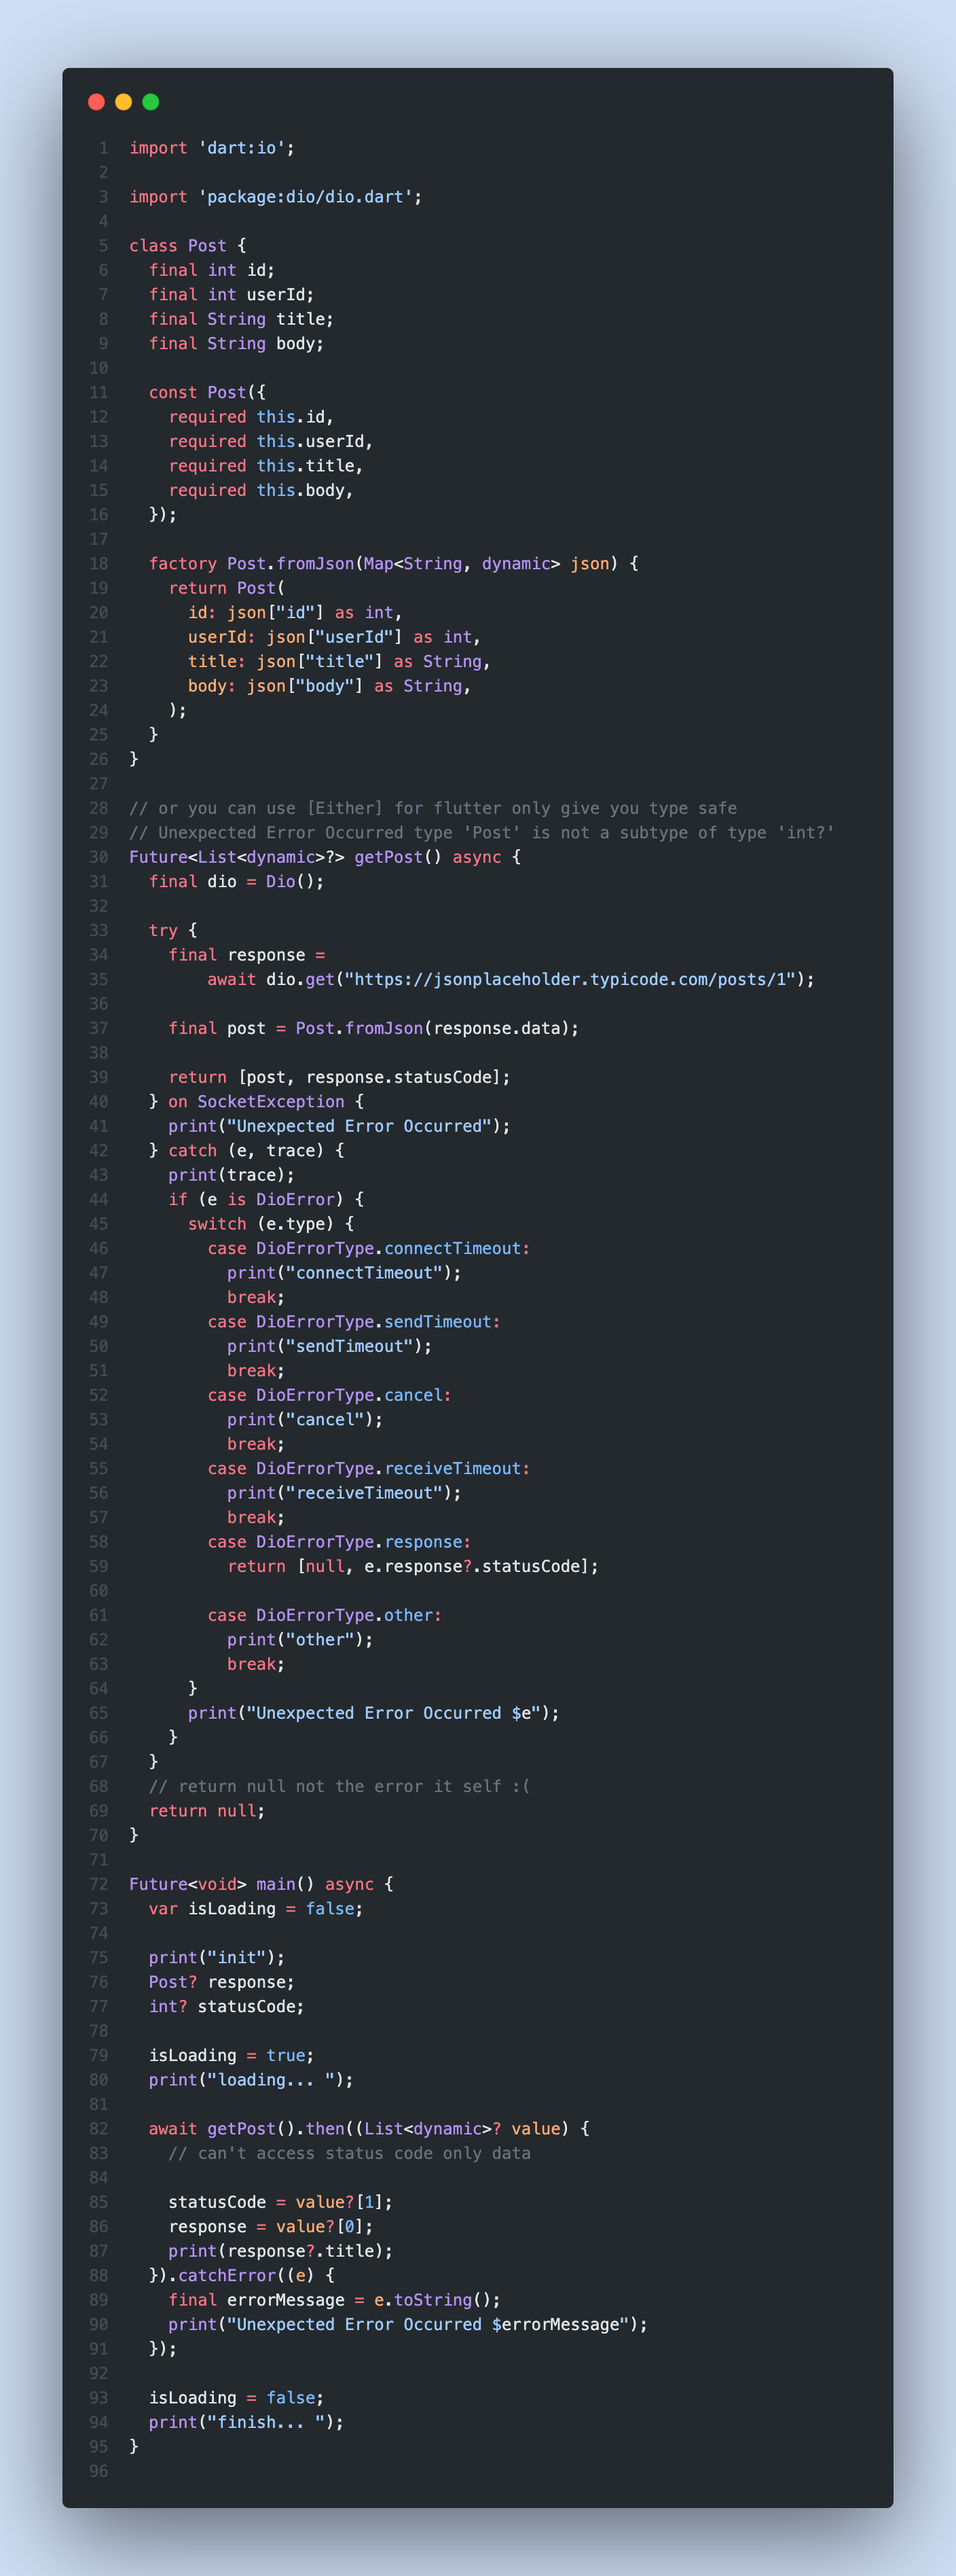
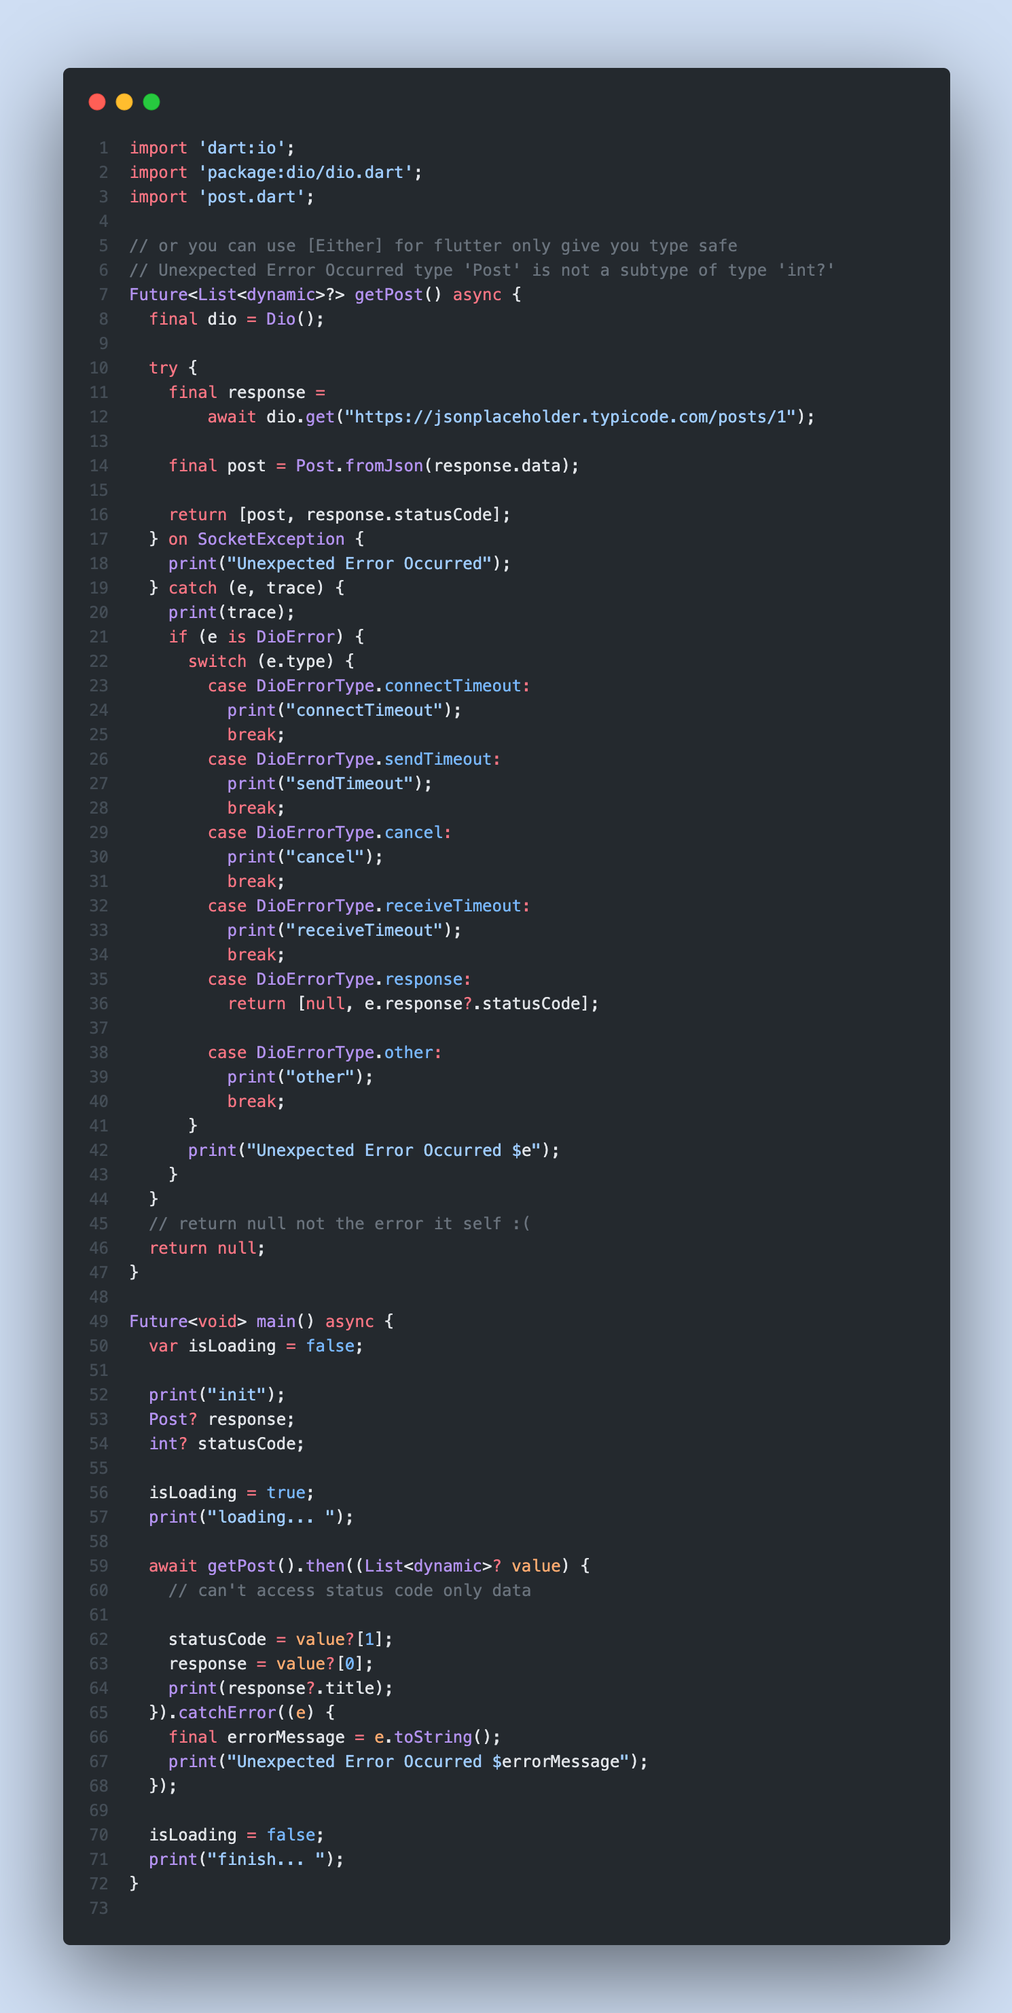
update: read me

diff --git a/example/perfect_error_handler_example.dart b/example/perfect_error_handler_example.dart
@@ -1,37 +1,13 @@
 import 'package:dio/dio.dart';
 import 'package:perfect_error_handler/perfect_error_handler.dart';
-
-class Post {
-  final int id;
-  final int userId;
-  final String title;
-  final String body;
-
-  const Post({
-    required this.id,
-    required this.userId,
-    required this.title,
-    required this.body,
-  });
-
-  factory Post.fromJson(Map<String, dynamic> json) {
-    return Post(
-      id: json["id"] as int,
-      userId: json["userId"] as int,
-      title: json["title"] as String,
-      body: json["body"] as String,
-    );
-  }
-}
+import 'post.dart';
 
 FutureResponse<Post> getPost() async {
   final dio = Dio();
 
   final response = await dio.get("https://jsonplaceholder.typicode.com/posts/1");
 
-  final post = Post.fromJson(response.data);
-
-  return HttpResponse(post, response);
+  return HttpResponse(Post.fromJson(response.data), response);
 }
 
 void main() {

diff --git a/example/perfect_error_handler_example_old.dart b/example/perfect_error_handler_example_old.dart
@@ -1,29 +1,6 @@
 import 'dart:io';
-
 import 'package:dio/dio.dart';
-
-class Post {
-  final int id;
-  final int userId;
-  final String title;
-  final String body;
-
-  const Post({
-    required this.id,
-    required this.userId,
-    required this.title,
-    required this.body,
-  });
-
-  factory Post.fromJson(Map<String, dynamic> json) {
-    return Post(
-      id: json["id"] as int,
-      userId: json["userId"] as int,
-      title: json["title"] as String,
-      body: json["body"] as String,
-    );
-  }
-}
+import 'post.dart';
 
 // or you can use [Either] for flutter only give you type safe
 // Unexpected Error Occurred type 'Post' is not a subtype of type 'int?'

diff --git a/example/post.dart b/example/post.dart
@@ -1,0 +1,22 @@
+class Post {
+  final int id;
+  final int userId;
+  final String title;
+  final String body;
+
+  const Post({
+    required this.id,
+    required this.userId,
+    required this.title,
+    required this.body,
+  });
+
+  factory Post.fromJson(Map<String, dynamic> json) {
+    return Post(
+      id: json["id"] as int,
+      userId: json["userId"] as int,
+      title: json["title"] as String,
+      body: json["body"] as String,
+    );
+  }
+}

diff --git a/README.md b/README.md
@@ -5,9 +5,9 @@ Welcome to [Perfrect Error Handler](https://pub.dev/packages/perfect_error_handl
 
 
 
-- define a constructor + the properties
-- override `toString`, `operator ==`, `hashCode`
-- implement a `copyWith` method to clone the object
+- handle all state init/loading/data/error easily
+- stream state changes 
+- logger for states
 - handling de/serialization
 
 Implementing all of this can take hundreds of lines, which are error-prone
